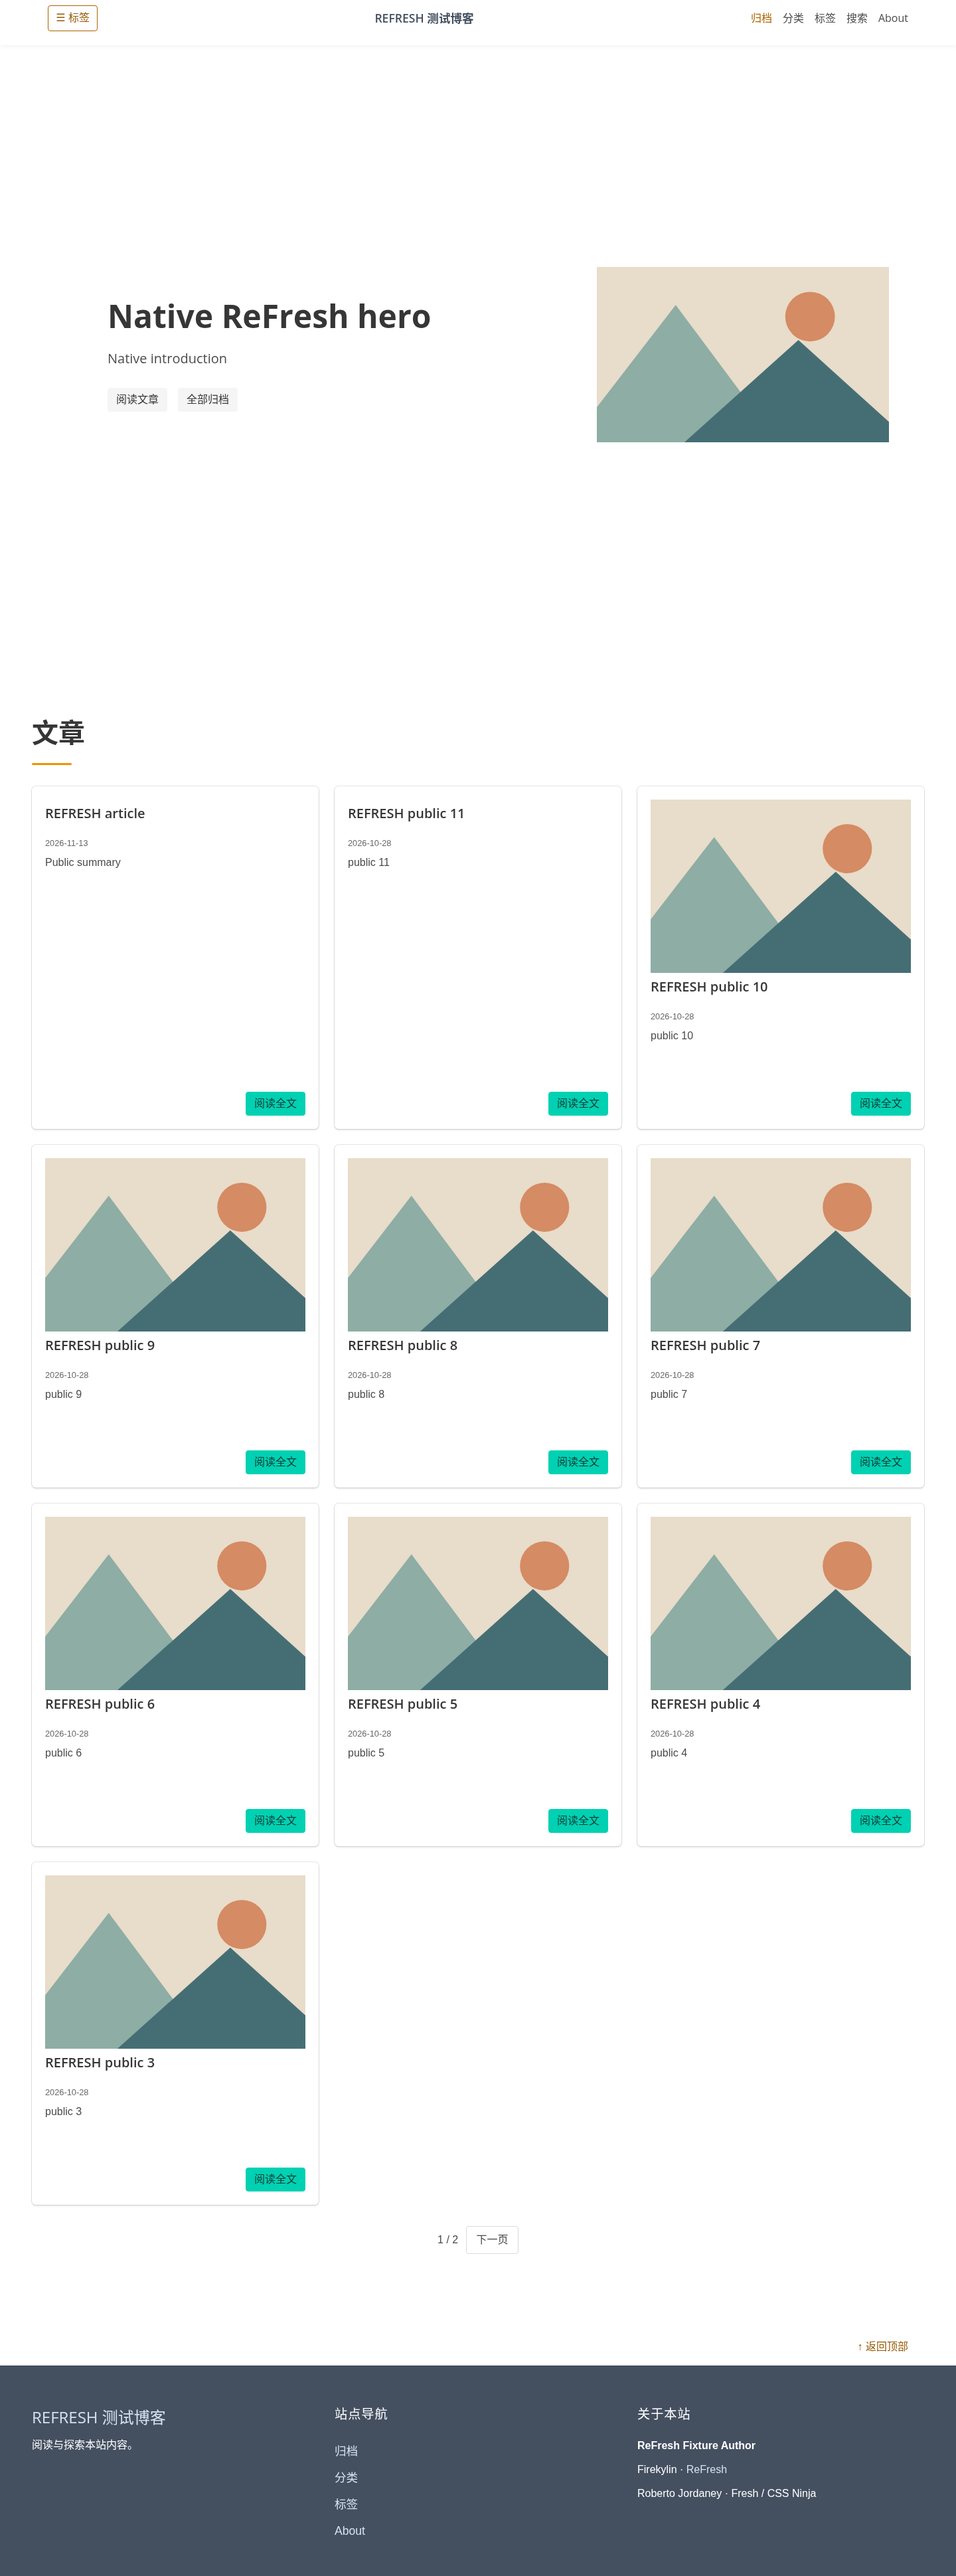
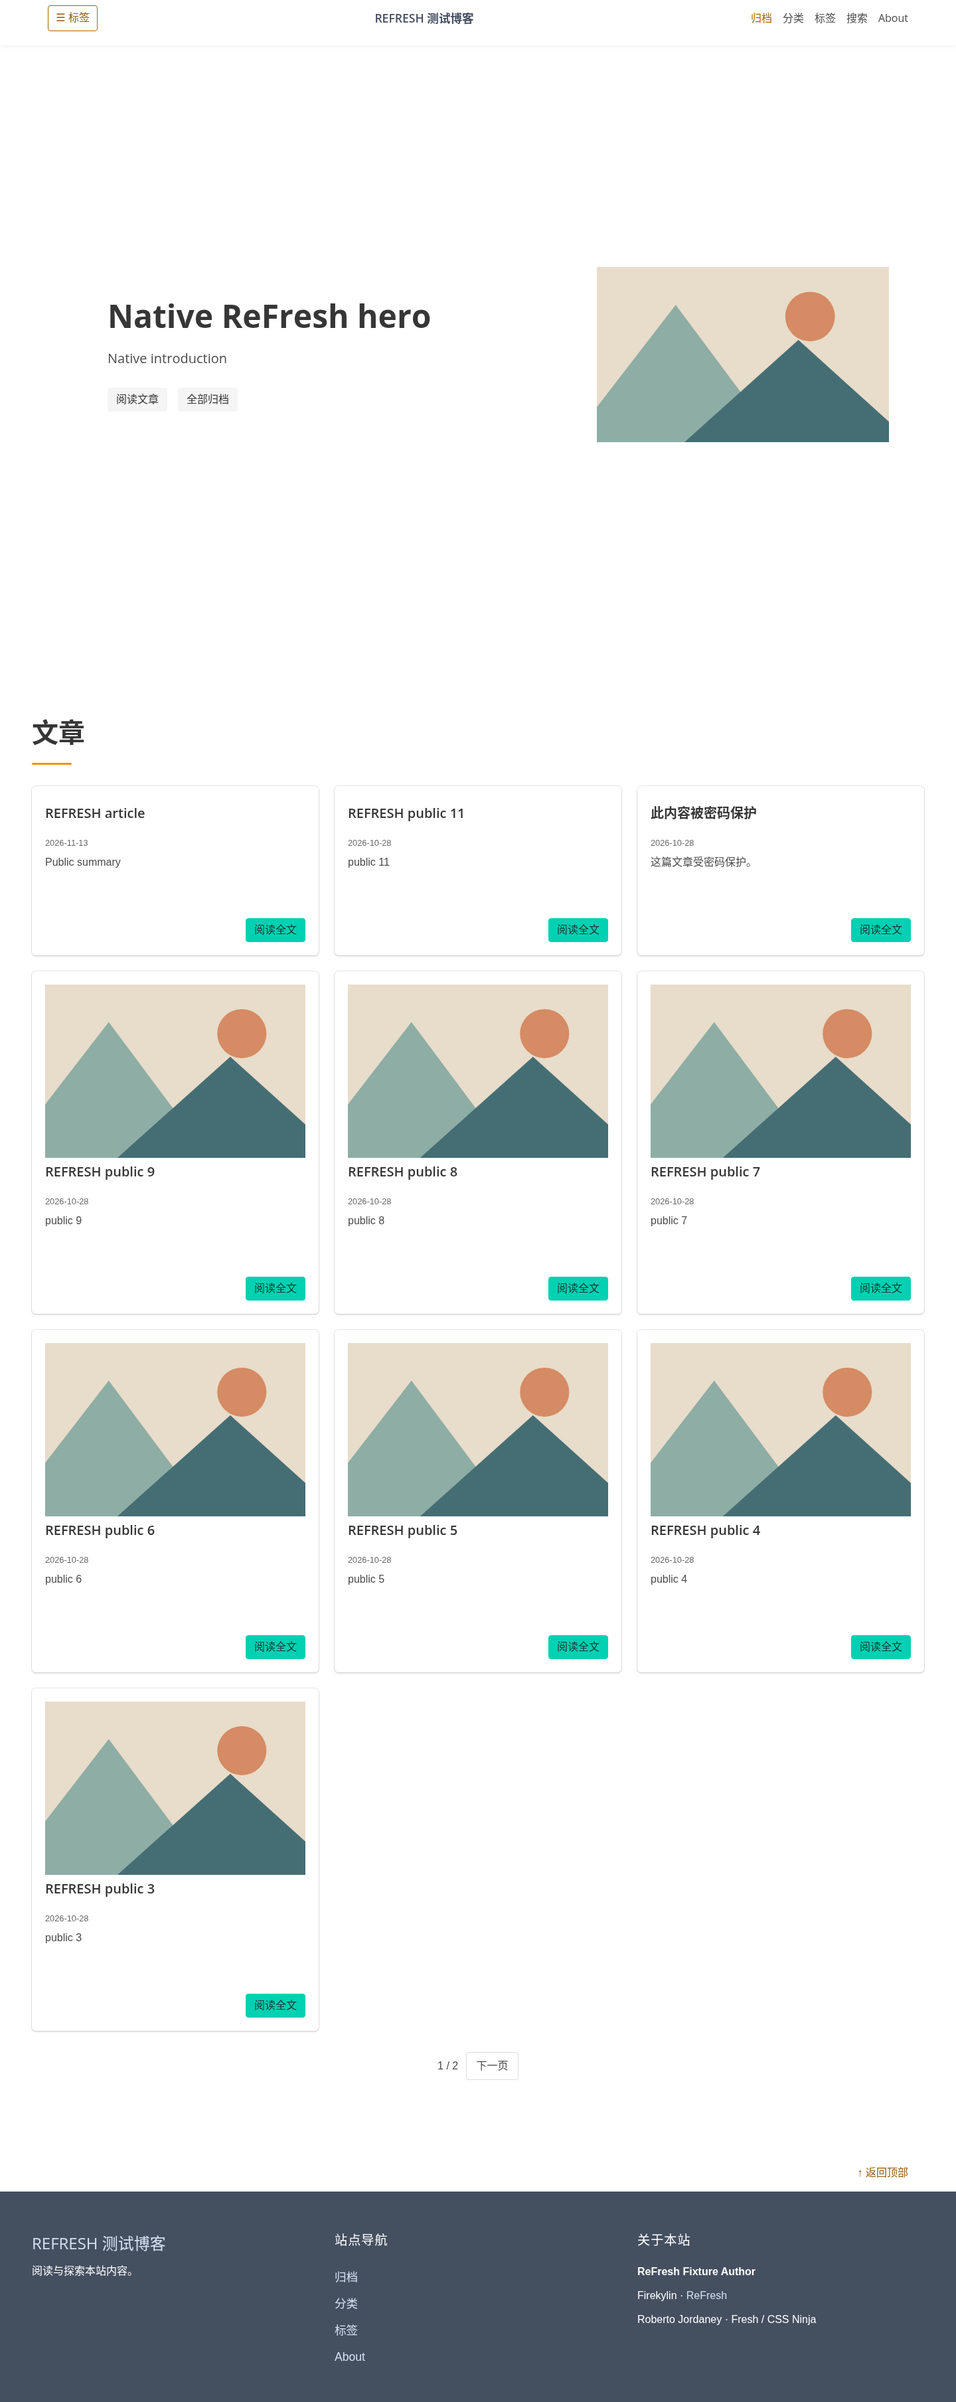
fix: suppress protected ReFresh covers in public listings

diff --git a/test/hugo-refresh.test.js b/test/hugo-refresh.test.js
@@ -12,3 +12,5 @@ test('ReFresh identifies taxonomy',async()=>{for(const [kind,label] of [['cate',
 test('ReFresh escapes hero text and rejects active hero URLs',async()=>{const html=await render('hugo-refresh','index',{config:{heroText:'<script>alert(1)</script>',heroImage:'javascript:alert(1)'}});assert(!html.includes('<script>alert(1)'));assert(html.includes('&lt;script&gt;'));assert(!html.includes('src="javascript:'));});
 test('ReFresh only shows hero on first unfiltered page',async()=>{assert(!(await render('hugo-refresh','index',{currentPage:2})).includes('class="hero native-hero'));assert(!(await render('hugo-refresh','index',{kind:'cate'})).includes('class="hero native-hero'));});
 test('ReFresh directories keep balanced wrappers',async()=>{for(const page of ['archive','cate','tag','search']){const html=await render('hugo-refresh',page);assert.equal((html.match(/<div(?:\s|>)/g)||[]).length,(html.match(/<\/div>/g)||[]).length,page);}});
+
+test('hugo-refresh omits confidential covers from redacted protected listings',async()=>{const {context}=require('./port-fixture');const {Eta}=require('eta');const path=require('node:path');for(const marker of ['title','flag','hash']){const ctx=context('hugo-refresh','index');const archive=await ctx.widget('Widget_Archive');archive.stack[0].options={featuredImage:'/CONFIDENTIAL_COVER.svg'};if(marker==='title')archive.stack[0].title='此内容被密码保护';if(marker==='flag')archive.stack[0].password_protected=true;if(marker==='hash')archive.stack[0].options.postPasswordHash='fixture';const html=await new Eta({views:path.join(__dirname,'../packages/hugo-refresh'),varName:'firekylin'}).renderAsync('index',ctx);assert(!html.includes('CONFIDENTIAL_COVER'),marker);}});

diff --git a/packages/hugo-refresh/README.md b/packages/hugo-refresh/README.md
@@ -7,3 +7,5 @@ The first home page shows the optional configured hero followed by Firekylin's f
 Posts/pages, archives, taxonomy/search, pagination, protected content, comments and attachments use Firekylin Widgets. Theme settings include plain-text hero title/description, an optional HTTP(S)/site-relative hero image, footer text and author. User input is escaped.
 
 Differences: no Hugo language switcher, arbitrary section tree, shortcodes, nested sidebar, service statistics, resource image processing, highlight/MathJax/Devicon engines, animated SVG menu/loader, cloned navbar or automatic modification-date text. Native controls replace jQuery and icon dependencies; article text remains left-aligned and semantic. Native action text is darkened and footer links lightened for readability, retaining the original turquoise button backgrounds. The home feed is added beneath the original landing layout. No live upstream pixel comparison or remote comment submission is claimed.
+
+Protected listing covers are suppressed for explicit protection flags/hashes and the core’s redacted-title marker, because this core revision can retain featured-image metadata after redaction.
